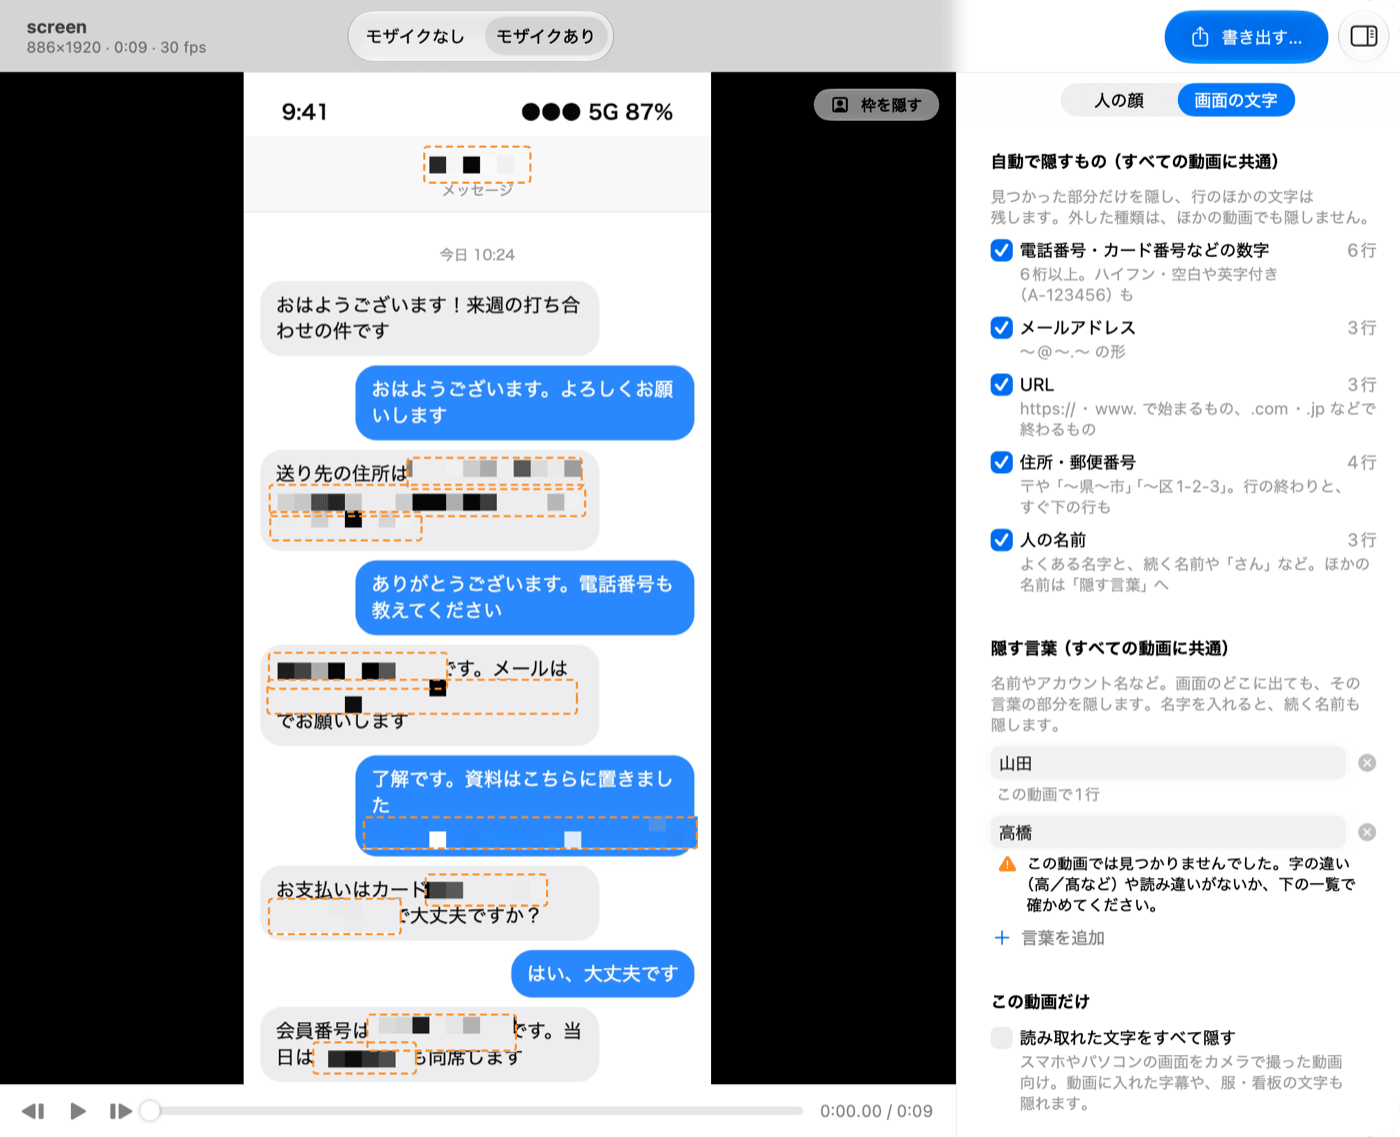
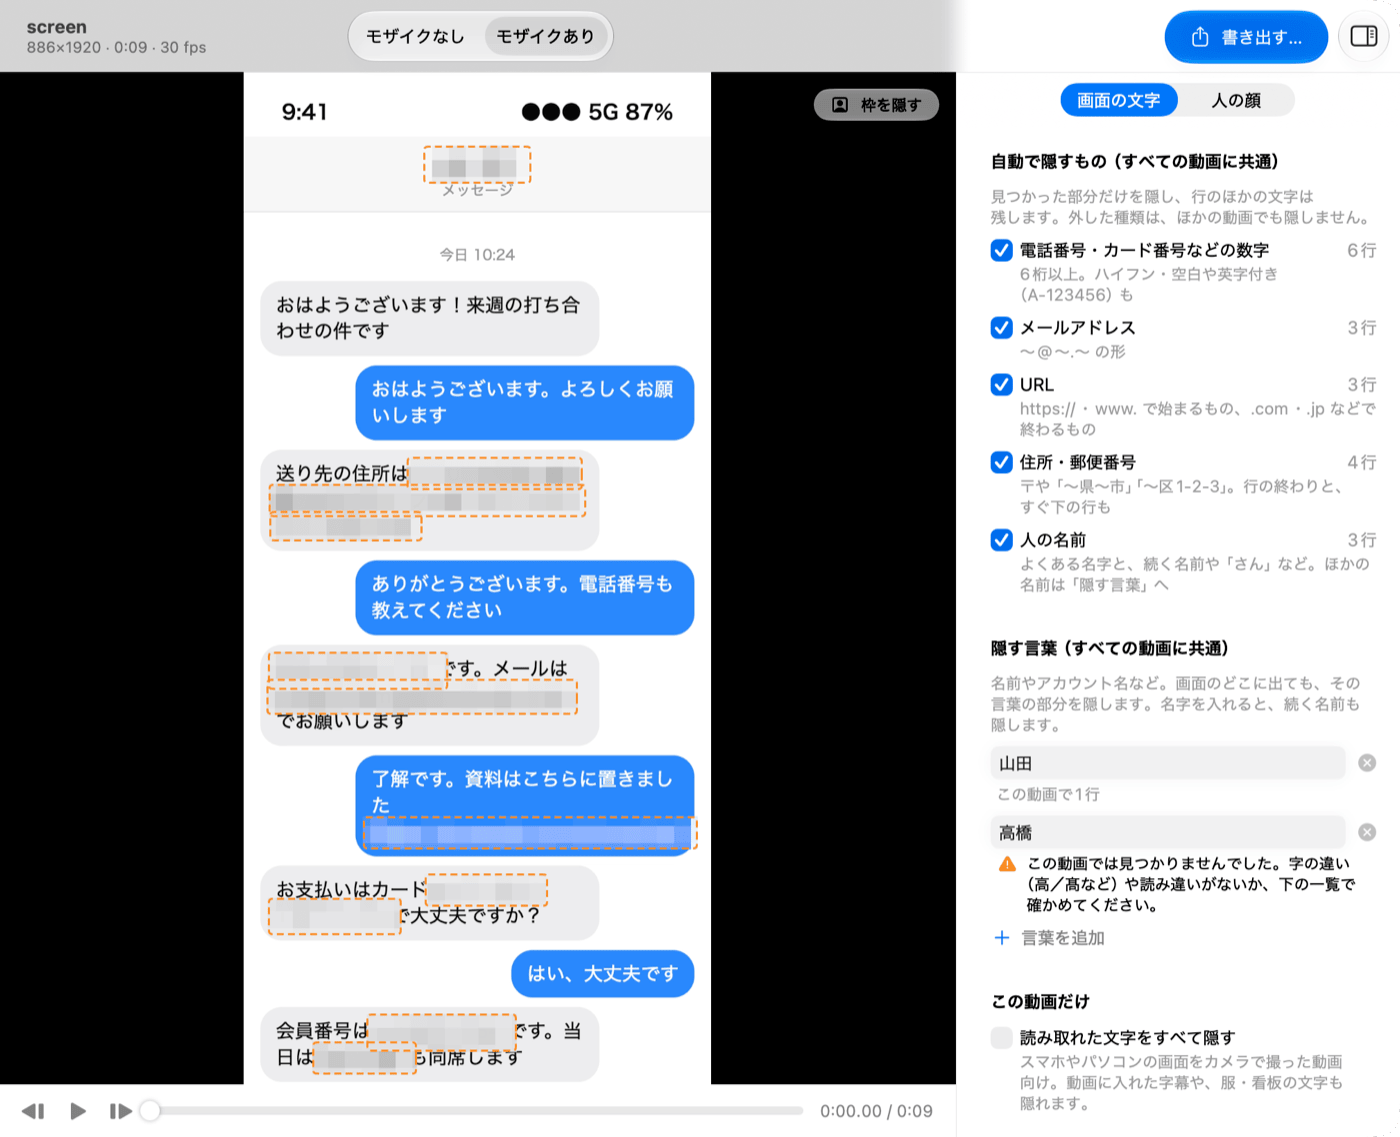
docs(readme): 新しい並び順とボタン名で画面の画像を撮り直す
「画面の文字」「人の顔」の順と「キャンセル」に合わせ、purpose.png・
text.png・app.jpg を撮り直す。purpose.png の代替テキストの並びも直す。

diff --git a/README.md b/README.md
@@ -34,7 +34,7 @@
 3. **「書き出す…」を押します。** 見つかった部分にモザイクがかかります。画質と音声は元の動画のままです
 
 <p align="center">
-  <img src="docs/images/purpose.png" width="560" alt="動画を追加すると出る「何を隠しますか？」の画面。人の顔・画面の文字・両方から選ぶ">
+  <img src="docs/images/purpose.png" width="560" alt="動画を追加すると出る「何を隠しますか？」の画面。画面の文字・人の顔・両方から選ぶ">
 </p>
 
 ## 名前・住所・電話番号を隠す
